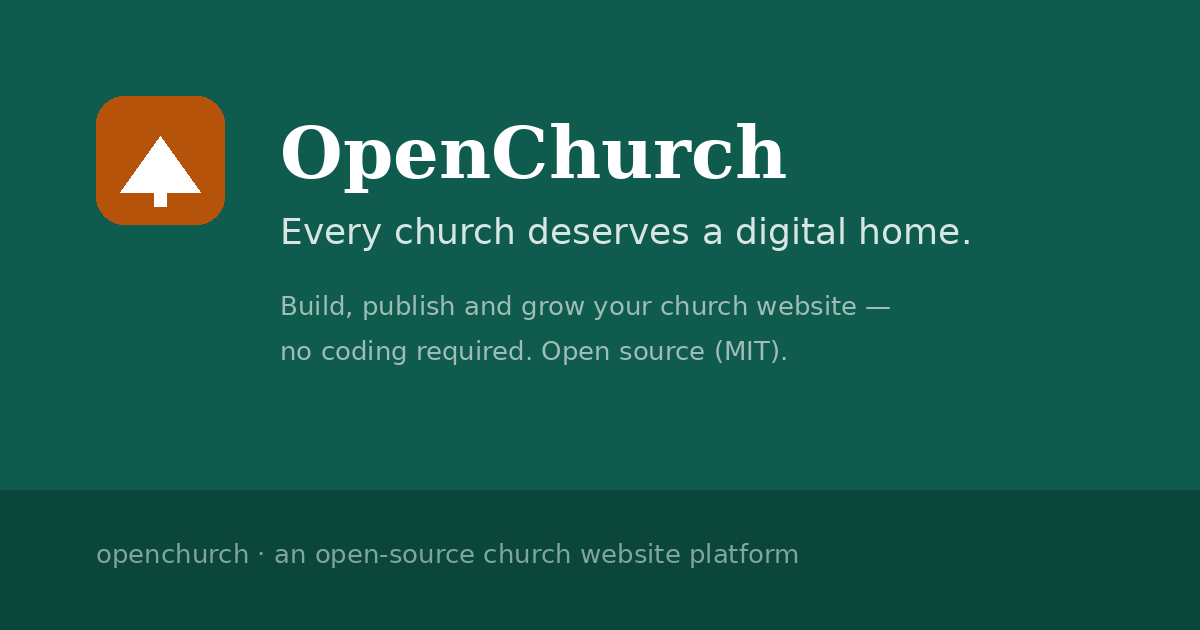
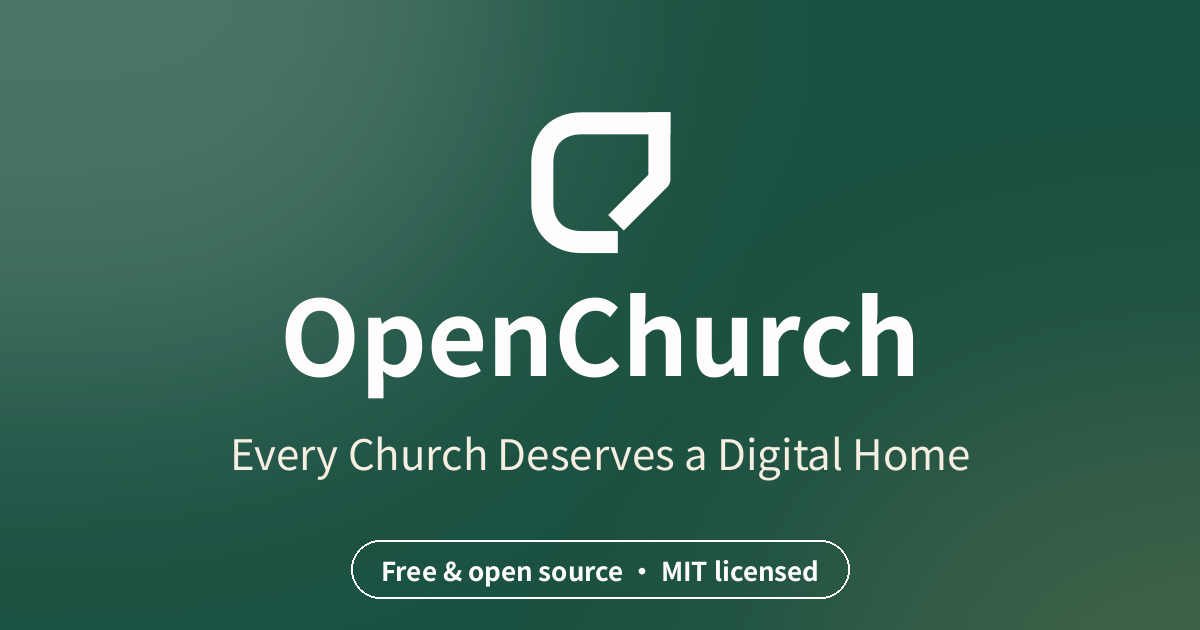
Apply OpenChurch brand refresh and preserve homepage integrations

diff --git a/src/app/page.tsx b/src/app/page.tsx
@@ -1,7 +1,6 @@
 import Link from 'next/link'
 import type { Metadata } from 'next'
 import {
-  Church,
   LayoutTemplate,
   Palette,
   Building2,
@@ -19,6 +18,7 @@ import {
 } from 'lucide-react'
 import { Button } from '@/components/ui/button'
 import { HeroMockup } from '@/components/platform/hero-mockup'
+import { OpenChurchMark } from '@/components/platform/brand'
 import { PillarsConnectServices } from '@/components/platform/pillarsconnect-services'
 import { THEMES } from '@/lib/themes/registry'
 import { getSessionUser } from '@/lib/auth/session'
@@ -205,11 +205,11 @@ export default async function LandingPage() {
       {/* Header */}
       <header className="sticky top-0 z-40 border-b bg-background/90 backdrop-blur supports-[backdrop-filter]:bg-background/75">
         <div className="mx-auto max-w-6xl px-4 sm:px-6 h-16 flex items-center justify-between gap-4">
-          <Link href="/" className="flex items-center gap-2.5 font-semibold tracking-tight">
-            <span className="grid place-items-center size-9 rounded-xl bg-primary text-primary-foreground">
-              <Church className="size-4.5" aria-hidden />
+          <Link href="/" className="flex items-center gap-2.5 font-semibold tracking-tight" aria-label="OpenChurch home">
+            <OpenChurchMark className="size-9 text-primary" />
+            <span className="text-lg">
+              <span className="font-bold text-primary">Open</span>Church
             </span>
-            <span className="text-lg">OpenChurch</span>
           </Link>
           <nav className="hidden md:flex items-center gap-6 text-sm text-muted-foreground" aria-label="Main">
             <a href="#features" className="hover:text-foreground transition-colors">Features</a>
@@ -523,10 +523,10 @@ export default async function LandingPage() {
       <footer className="mt-auto border-t bg-background">
         <div className="mx-auto max-w-6xl px-4 sm:px-6 py-10 flex flex-col sm:flex-row items-center justify-between gap-6">
           <div className="flex items-center gap-2.5 font-semibold">
-            <span className="grid place-items-center size-8 rounded-lg bg-primary text-primary-foreground">
-              <Church className="size-4" aria-hidden />
+            <OpenChurchMark className="size-8 text-primary" />
+            <span>
+              <span className="font-bold text-primary">Open</span>Church
             </span>
-            OpenChurch
           </div>
           <nav className="flex flex-wrap items-center justify-center gap-x-6 gap-y-2 text-sm text-muted-foreground" aria-label="Footer">
             <a href="#features" className="hover:text-foreground transition-colors">Features</a>
@@ -552,4 +552,3 @@ export default async function LandingPage() {
     </div>
   )
 }
-

diff --git a/src/components/platform/brand.tsx b/src/components/platform/brand.tsx
@@ -1,0 +1,76 @@
+import type { ComponentProps } from 'react'
+import { cn } from '@/lib/utils'
+
+/**
+ * OpenChurch brand components.
+ *
+ * Geometry is taken verbatim from the official brand set
+ * (public/brand/openchurch-*.svg — see public/brand/README.txt):
+ * an abstract geometric open-portal mark whose lower-right opening
+ * suggests access, welcome and openness.
+ *
+ * Brand colours (public/brand/README.txt):
+ *   deep green #1B5142 · warm off-white #FEFDFB ·
+ *   soft cream #F6EFE1 · dark neutral #252B29
+ * The platform's `--primary` token is this same deep green, so the default
+ * lockup composes directly with the site palette.
+ *
+ * The wordmark is rendered as HTML text (Geist Sans) rather than SVG <text>
+ * so it stays crisp, honours font fallbacks and inherits tracking/weight —
+ * the brand files themselves specify "Inter with generic sans-serif
+ * fallbacks", which the site font family satisfies.
+ */
+
+/** Standalone brand mark. Colour follows `currentColor` (set text-* on it). */
+export function OpenChurchMark({ className, ...props }: ComponentProps<'svg'>) {
+  return (
+    <svg
+      viewBox="0 0 112 112"
+      fill="none"
+      stroke="currentColor"
+      strokeWidth={13}
+      strokeLinecap="square"
+      strokeLinejoin="round"
+      aria-hidden="true"
+      focusable="false"
+      className={cn('shrink-0', className)}
+      {...props}
+    >
+      <path d="M91 22H45C31 22 22 31 22 45V69C22 83 31 92 45 92H60" />
+      <path d="M91 22V55L70 76" />
+    </svg>
+  )
+}
+
+/**
+ * Horizontal brand lockup: mark + wordmark.
+ *
+ * - `default`  — deep green mark, "Open" bold green + "Church" dark neutral
+ *                (mirrors public/brand/openchurch-primary.svg) for light
+ *                surfaces.
+ * - `reversed` — warm off-white throughout (mirrors
+ *                openchurch-reversed.svg) for dark surfaces such as the
+ *                console sidebar.
+ */
+export function OpenChurchLogo({
+  variant = 'default',
+  className,
+}: {
+  variant?: 'default' | 'reversed'
+  className?: string
+}) {
+  const reversed = variant === 'reversed'
+  return (
+    <span className={cn('inline-flex items-center gap-2', className)}>
+      <OpenChurchMark className={cn('size-8', reversed ? 'text-[#FEFDFB]' : 'text-primary')} />
+      <span
+        className={cn(
+          'text-lg leading-none font-semibold tracking-tight',
+          reversed ? 'text-[#FEFDFB]' : 'text-foreground'
+        )}
+      >
+        <span className={cn('font-bold', reversed ? '' : 'text-primary')}>Open</span>Church
+      </span>
+    </span>
+  )
+}

diff --git a/src/app/admin/layout.tsx b/src/app/admin/layout.tsx
@@ -1,7 +1,8 @@
 import type { Metadata } from 'next'
 import Link from 'next/link'
 import { redirect } from 'next/navigation'
-import { Church, LayoutDashboard } from 'lucide-react'
+import { LayoutDashboard } from 'lucide-react'
+import { OpenChurchMark } from '@/components/platform/brand'
 import { Button } from '@/components/ui/button'
 import { getSessionUser } from '@/lib/auth/session'
 import { PlatformSignOutButton } from '@/components/dashboard/admin-console'
@@ -25,10 +26,10 @@ export default async function AdminLayout({ children }: { children: React.ReactN
             className="flex min-w-0 items-center gap-2.5 font-semibold"
             aria-label="OpenChurch platform administration home"
           >
-            <span className="grid size-8 shrink-0 place-items-center rounded-lg bg-primary text-primary-foreground">
-              <Church className="size-4" aria-hidden />
+            <OpenChurchMark className="size-8 text-primary" />
+            <span className="truncate">
+              <span className="font-bold text-primary">Open</span>Church Platform Administration
             </span>
-            <span className="truncate">OpenChurch Platform Administration</span>
           </Link>
           <div className="flex items-center gap-2">
             <Button asChild variant="outline" size="sm">

diff --git a/src/app/console/page.tsx b/src/app/console/page.tsx
@@ -3,6 +3,7 @@ import { redirect } from 'next/navigation'
 import { Church, Plus, ArrowRight, ExternalLink } from 'lucide-react'
 import { Button } from '@/components/ui/button'
 import { Card, CardContent } from '@/components/ui/card'
+import { OpenChurchLogo } from '@/components/platform/brand'
 import { requireUser, getUserMemberships } from '@/lib/auth/guards'
 
 export const metadata = { title: 'Your churches', robots: { index: false } }
@@ -25,11 +26,8 @@ export default async function DashboardPickerPage({
     <div className="min-h-screen flex flex-col bg-muted/30">
       <header className="border-b bg-background">
         <div className="mx-auto max-w-6xl px-4 sm:px-6 h-16 flex items-center justify-between">
-          <Link href="/" className="flex items-center gap-2 font-semibold text-primary">
-            <span className="grid place-items-center size-8 rounded-lg bg-primary text-primary-foreground">
-              <Church className="size-4" aria-hidden />
-            </span>
-            OpenChurch
+          <Link href="/" aria-label="OpenChurch home">
+            <OpenChurchLogo />
           </Link>
           {user.isPlatformAdmin ? (
             <Button asChild variant="outline" size="sm">

diff --git a/src/app/onboarding/page.tsx b/src/app/onboarding/page.tsx
@@ -1,7 +1,7 @@
 import type { Metadata } from 'next'
 import { requireUser } from '@/lib/auth/guards'
 import { OnboardingWizard } from '@/components/onboarding/wizard'
-import { Church } from 'lucide-react'
+import { OpenChurchLogo } from '@/components/platform/brand'
 import Link from 'next/link'
 
 export const metadata: Metadata = {
@@ -15,11 +15,8 @@ export default async function OnboardingPage() {
     <div className="min-h-screen flex flex-col bg-muted/40">
       <header className="border-b bg-background">
         <div className="mx-auto max-w-6xl px-4 sm:px-6 h-16 flex items-center justify-between">
-          <Link href="/" className="flex items-center gap-2 font-semibold text-primary">
-            <span className="grid place-items-center size-8 rounded-lg bg-primary text-primary-foreground">
-              <Church className="size-4" aria-hidden />
-            </span>
-            OpenChurch
+          <Link href="/" aria-label="OpenChurch home">
+            <OpenChurchLogo />
           </Link>
           <span className="text-sm text-muted-foreground">Onboarding — your progress is saved automatically</span>
         </div>

diff --git a/src/components/dashboard/sidebar.tsx b/src/components/dashboard/sidebar.tsx
@@ -4,7 +4,6 @@ import { useState } from 'react'
 import Link from 'next/link'
 import { usePathname, useRouter } from 'next/navigation'
 import {
-  Church,
   LayoutDashboard,
   Files,
   Palette,
@@ -30,6 +29,7 @@ import { Button } from '@/components/ui/button'
 import { cn } from '@/lib/utils'
 import { apiFetch } from '@/lib/client/api'
 import type { ChurchRole } from '@/lib/permissions'
+import { OpenChurchMark } from '@/components/platform/brand'
 
 export type NavItemDef = {
   href: string
@@ -116,7 +116,7 @@ export function DashboardSidebar({
       {/* Brand / church */}
       <div className="p-4 border-b border-sidebar-border">
         <Link href="/console" className="flex items-center gap-2 text-xs text-sidebar-foreground/70 hover:text-sidebar-foreground transition-colors">
-          <Church className="size-3.5" aria-hidden /> OpenChurch
+          <OpenChurchMark className="size-3.5" /> OpenChurch
         </Link>
         <p className="mt-2 font-semibold leading-snug">{churchName}</p>
         <p className="mt-0.5 inline-flex items-center gap-1.5 text-xs text-sidebar-foreground/60">

diff --git a/src/components/auth/auth-shell.tsx b/src/components/auth/auth-shell.tsx
@@ -1,6 +1,6 @@
 import type { ReactNode } from 'react'
 import Link from 'next/link'
-import { Church } from 'lucide-react'
+import { OpenChurchLogo } from '@/components/platform/brand'
 
 /** Shared shell for the platform's auth pages. */
 export function AuthShell({
@@ -18,11 +18,8 @@ export function AuthShell({
     <div className="min-h-screen flex flex-col bg-muted/40">
       <header className="border-b bg-background">
         <div className="mx-auto max-w-6xl px-4 sm:px-6 h-16 flex items-center justify-between">
-          <Link href="/" className="flex items-center gap-2 font-semibold text-primary">
-            <span className="grid place-items-center size-8 rounded-lg bg-primary text-primary-foreground">
-              <Church className="size-4" aria-hidden />
-            </span>
-            OpenChurch
+          <Link href="/" aria-label="OpenChurch home">
+            <OpenChurchLogo />
           </Link>
           <Link
             href="/"

diff --git a/scripts/generate-og.py b/scripts/generate-og.py
@@ -1,0 +1,80 @@
+#!/usr/bin/env python3
+"""Regenerate public/og-default.png with the official OpenChurch brand mark.
+
+Design: deep brand green (#1B5142) canvas, warm off-white (#FEFDFB) reversed
+mark + wordmark (per public/brand/openchurch-reversed.svg usage guidance),
+soft cream tagline and an MIT badge. Matches the site hero's radial-glow style.
+"""
+import io
+
+import cairosvg
+from PIL import Image, ImageDraw, ImageFilter, ImageFont
+
+W, H = 1200, 630
+GREEN = (27, 81, 66)        # #1B5142
+OFFWHITE = (254, 253, 251)  # #FEFDFB
+CREAM = (246, 239, 225)     # #F6EFE1
+
+BOLD = "/usr/share/fonts/truetype/chinese/NotoSansSC-Bold.ttf"
+REG = "/usr/share/fonts/truetype/chinese/NotoSansSC-Regular.ttf"
+
+# --- 1. Render the brand mark (off-white strokes) via cairosvg -----------
+MARK_SVG = """<svg xmlns="http://www.w3.org/2000/svg" viewBox="0 0 112 112">
+  <g fill="none" stroke="#FEFDFB" stroke-width="13" stroke-linecap="square" stroke-linejoin="round">
+    <path d="M91 22H45C31 22 22 31 22 45V69C22 83 31 92 45 92H60"/>
+    <path d="M91 22V55L70 76"/>
+  </g>
+</svg>"""
+mark_png = cairosvg.svg2png(bytestring=MARK_SVG.encode(), output_width=190, output_height=190)
+mark = Image.open(io.BytesIO(mark_png)).convert("RGBA")
+
+# --- 2. Canvas + soft radial glows (mirrors the hero mockup styling) ------
+img = Image.new("RGB", (W, H), GREEN)
+
+glow = Image.new("L", (W, H), 0)
+gd = ImageDraw.Draw(glow)
+gd.ellipse([-260, -300, 520, 380], fill=52)    # top-left white glow
+glow = glow.filter(ImageFilter.GaussianBlur(130))
+white_layer = Image.new("RGB", (W, H), OFFWHITE)
+img = Image.composite(white_layer, img, glow.point(lambda v: v))
+
+glow2 = Image.new("L", (W, H), 0)
+gd2 = ImageDraw.Draw(glow2)
+gd2.ellipse([820, 420, 1420, 940], fill=46)    # bottom-right amber glow
+glow2 = glow2.filter(ImageFilter.GaussianBlur(140))
+amber = Image.new("RGB", (W, H), (242, 179, 102))  # #F2B366 site amber
+img = Image.composite(amber, img, glow2.point(lambda v: v))
+
+img = img.convert("RGBA")
+draw = ImageDraw.Draw(img)
+
+# --- 3. Mark (anchor-based layout for precise vertical rhythm) ------------
+img.alpha_composite(mark, ((W - mark.width) // 2, 86))
+
+# --- 4. Wordmark -----------------------------------------------------------
+f_word = ImageFont.truetype(BOLD, 104)
+draw.text((W / 2, 330), "OpenChurch", font=f_word, fill=OFFWHITE, anchor="mm")
+
+# --- 5. Tagline ------------------------------------------------------------
+f_tag = ImageFont.truetype(REG, 42)
+draw.text((W / 2, 452), "Every Church Deserves a Digital Home", font=f_tag, fill=CREAM, anchor="mm")
+
+# --- 6. MIT badge ----------------------------------------------------------
+f_badge = ImageFont.truetype(BOLD, 26)
+badge = "Free & open source \N{MIDDLE DOT} MIT licensed"
+bbox = draw.textbbox((0, 0), badge, font=f_badge)
+bw = bbox[2] - bbox[0]
+bh = bbox[3] - bbox[1]
+pad_x, pad_y = 30, 15
+by0 = 540
+by1 = by0 + bh + 2 * pad_y
+draw.rounded_rectangle(
+    [(W - bw) / 2 - pad_x, by0, (W + bw) / 2 + pad_x, by1],
+    radius=int((by1 - by0) / 2),
+    outline=(254, 253, 251, 90),
+    width=2,
+)
+draw.text((W / 2, (by0 + by1) / 2), badge, font=f_badge, fill=OFFWHITE, anchor="mm")
+
+img.convert("RGB").save("/home/z/my-project/public/og-default.png", "PNG", optimize=True)
+print("saved public/og-default.png", img.size)
